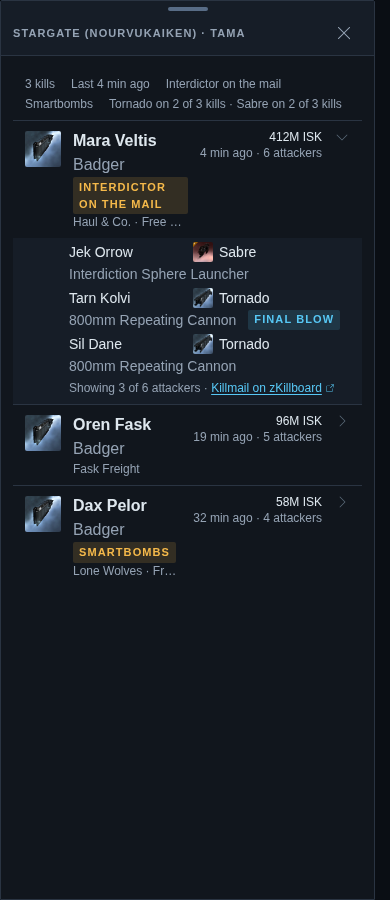
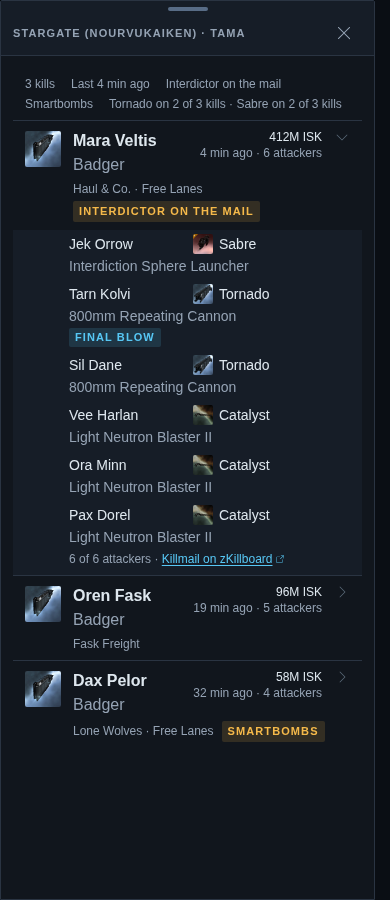
docs(mockups): kill modal shows all attackers; org and tags span the full row (#5929)

diff --git a/src/mockups/RouteSafetyKills.stories.tsx b/src/mockups/RouteSafetyKills.stories.tsx
@@ -70,6 +70,9 @@ const GATE_A: Kill[] = [
         finalBlow: true,
       },
       { name: 'Sil Dane', corp: 'Red Tide', ship: TORNADO, weapon: '800mm Repeating Cannon' },
+      { name: 'Vee Harlan', corp: 'Red Tide', ship: CATALYST, weapon: 'Light Neutron Blaster II' },
+      { name: 'Ora Minn', corp: 'Red Tide', ship: CATALYST, weapon: 'Light Neutron Blaster II' },
+      { name: 'Pax Dorel', corp: 'Red Tide', ship: CATALYST, weapon: 'Light Neutron Blaster II' },
     ],
   },
   {
@@ -167,41 +170,41 @@ function KillRow({ kill, open }: { kill: Kill; open?: boolean }) {
         type="button"
         aria-expanded={expanded}
         onClick={() => setExpanded(!expanded)}
-        className="flex w-full items-start gap-3 px-3 py-2 text-left hover:bg-panel-2"
+        className="flex w-full flex-wrap items-start gap-x-3 gap-y-1 px-3 py-2 text-left hover:bg-panel-2"
       >
         <TypeIcon typeId={kill.ship[0]} size={64} className="mt-0.5 size-9 shrink-0 rounded-xs" />
         <span className="min-w-0 flex-1">
-          <span className="flex flex-wrap items-baseline gap-x-2">
-            <span className="font-semibold text-text">{kill.victim}</span>
-            <span className="text-text-dim">{kill.ship[1]}</span>
-            {kill.tags?.map((tag) => (
-              <Pill key={tag} tone="warning">
-                {tag}
-              </Pill>
-            ))}
-          </span>
-          <span className="block truncate text-xs text-text-dim">{kill.victimOrg}</span>
+          <span className="block font-semibold text-text">{kill.victim}</span>
+          <span className="block text-text-dim">{kill.ship[1]}</span>
         </span>
         <span className="shrink-0 text-right text-xs tabular-nums text-text-dim">
           <span className="block font-medium text-text">{kill.value} ISK</span>
           {kill.ago} · {kill.attackers} attackers
         </span>
         <Caret expanded={expanded} />
+        <span className="flex basis-full flex-wrap items-center gap-x-2 gap-y-1 pl-12">
+          <span className="text-xs text-text-dim">{kill.victimOrg}</span>
+          {kill.tags?.map((tag) => (
+            <Pill key={tag} tone="warning">
+              {tag}
+            </Pill>
+          ))}
+        </span>
       </button>
       {expanded && (
         <div className="bg-panel-2 px-3 pb-2 pt-1 pl-14 text-sm">
-          <ul className="space-y-1">
+          <ul className="space-y-2 sm:space-y-1">
             {kill.list.map((a) => (
               <li key={a.name + a.weapon} className="flex flex-wrap items-center gap-x-3 gap-y-0.5">
                 <span className="w-28 font-medium text-text">{a.name}</span>
                 <ShipLine ship={a.ship} className="w-32 text-text" />
-                <span className="text-text-dim">{a.weapon}</span>
+                <span className="basis-full text-text-dim sm:basis-auto">{a.weapon}</span>
                 {a.finalBlow && <Pill tone="accent">Final blow</Pill>}
               </li>
             ))}
           </ul>
           <p className="mt-1 text-xs text-text-dim">
-            Showing {kill.list.length} of {kill.attackers} attackers ·{' '}
+            {kill.list.length} of {kill.attackers} attackers ·{' '}
             <ExternalLink href="https://zkillboard.com/">Killmail on zKillboard</ExternalLink>
           </p>
         </div>
